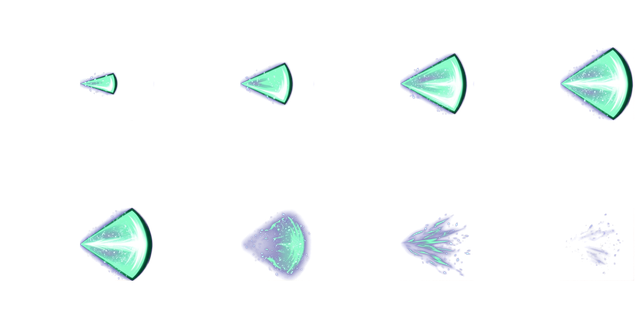
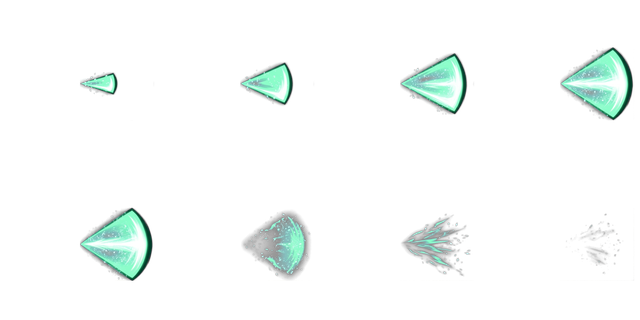
Убрать фиолетовый ореол вокруг эффектов и приоткрыть зону
Ореол не сжатие и не брак генерации: формула альфы считает магентовость
эффекта нулевой, а у тёмной обводки (#0e3a28 у косы) она сильно
отрицательная. На переходном пикселе альфа выходит завышенной, фона
вычитается меньше, чем в нём есть, и в полупрозрачной кайме остаётся
синева. В листе косы такими были 7.4% рисунка, а среди пикселей с альфой
0.6-0.9 — треть.

despill берёт порог из самого листа: в плотном теле видно, какая
магентовость у этого рисунка законная, всё выше придавливается к ней.
Белое ядро и мятная заливка лежат ниже порога и не трогаются. После
чистки фиолетовых пикселей в листе не осталось ни одного.

Заодно потолок непрозрачности листа зоны опущен с 1 до 0.82: вспышка
держится 0.3 с и при полной заливке прятала тех самых врагов, по которым
бьёт. Теперь сквозь клин видно и врагов, и кристаллы.

Claude-Session: https://claude.ai/code/session_01HKqKr2FyXg3awmgfb8SuGD

diff --git a/project/chernolesie/src/game/data/weapon-fx.js b/project/chernolesie/src/game/data/weapon-fx.js
@@ -224,9 +224,12 @@ function zoneSheetStamp(x,y,R,id,k,rot,arc){
  }
  if(rot)ctx.rotate(rot);
  if(brief){
-  // непрозрачный силуэт поверх карты, как в Vampire Survivors: обводка держит
-  // форму, гасим только на излёте, чтобы вспышка уходила, а не обрывалась
-  ctx.globalAlpha=Math.min(1,k*1.6);
+  // силуэт поверх карты, как в Vampire Survivors: обводка держит форму,
+  // гасим только на излёте, чтобы вспышка уходила, а не обрывалась.
+  // Потолок 0.82, а не 1: зона косы держится на экране 0.3 с, и при полной
+  // непрозрачности она на это время прячет тех самых врагов, по которым бьёт —
+  // игрок перестаёт видеть, что происходит в им же созданной вспышке.
+  ctx.globalAlpha=Math.min(0.82,k*1.4);
  }else{
   ctx.globalCompositeOperation='lighter';
   // потолок 0.5: на 'lighter' лист во весь экран при альфе 1 выбивает всё

diff --git a/project/chernolesie/tools/chromakey.py b/project/chernolesie/tools/chromakey.py
@@ -92,7 +92,34 @@ def key(img):
     fg = np.clip((rgb - (1.0 - alpha)[:, :, None] * bg) / safe, 0, 255)
     fg[alpha == 0] = 0
 
+    fg = despill(fg, alpha)
     return np.dstack([fg, alpha * 255.0])
+
+
+def despill(fg, alpha):
+    """Убрать невычтенный фон из полупрозрачной каймы.
+
+    Формула альфы выше считает, что у самого эффекта магентовость нулевая.
+    У светлых кадров это почти так, но тёмная обводка (#0e3a28 у косы) уходит
+    в минус, и на переходном пикселе альфа получается завышенной: фона
+    вычитается меньше, чем в нём есть. Остаток — синева по внешнему краю,
+    на экране она читается как фиолетовый ореол вокруг эффекта.
+
+    Порог не назначается вручную, а берётся из самого листа: в плотном теле
+    (альфа > 0.9) видно, какая магентовость у этого рисунка законная. Всё,
+    что вылезло выше, придавливается к ней. Белое ядро и мятная заливка
+    лежат сильно ниже порога и не трогаются."""
+    R, G, B = fg[:, :, 0], fg[:, :, 1], fg[:, :, 2]
+    mg = np.minimum(R, B) - G
+    core = alpha > 0.9
+    if core.sum() < 64:
+        return fg
+    cap = float(np.percentile(mg[core], 99))
+    lim = (G + cap)[:, :, None]
+    out = fg.copy()
+    out[:, :, 0] = np.minimum(R, lim[:, :, 0])
+    out[:, :, 2] = np.minimum(B, lim[:, :, 0])
+    return out
 
 
 def cut(rgba, cols, rows):
